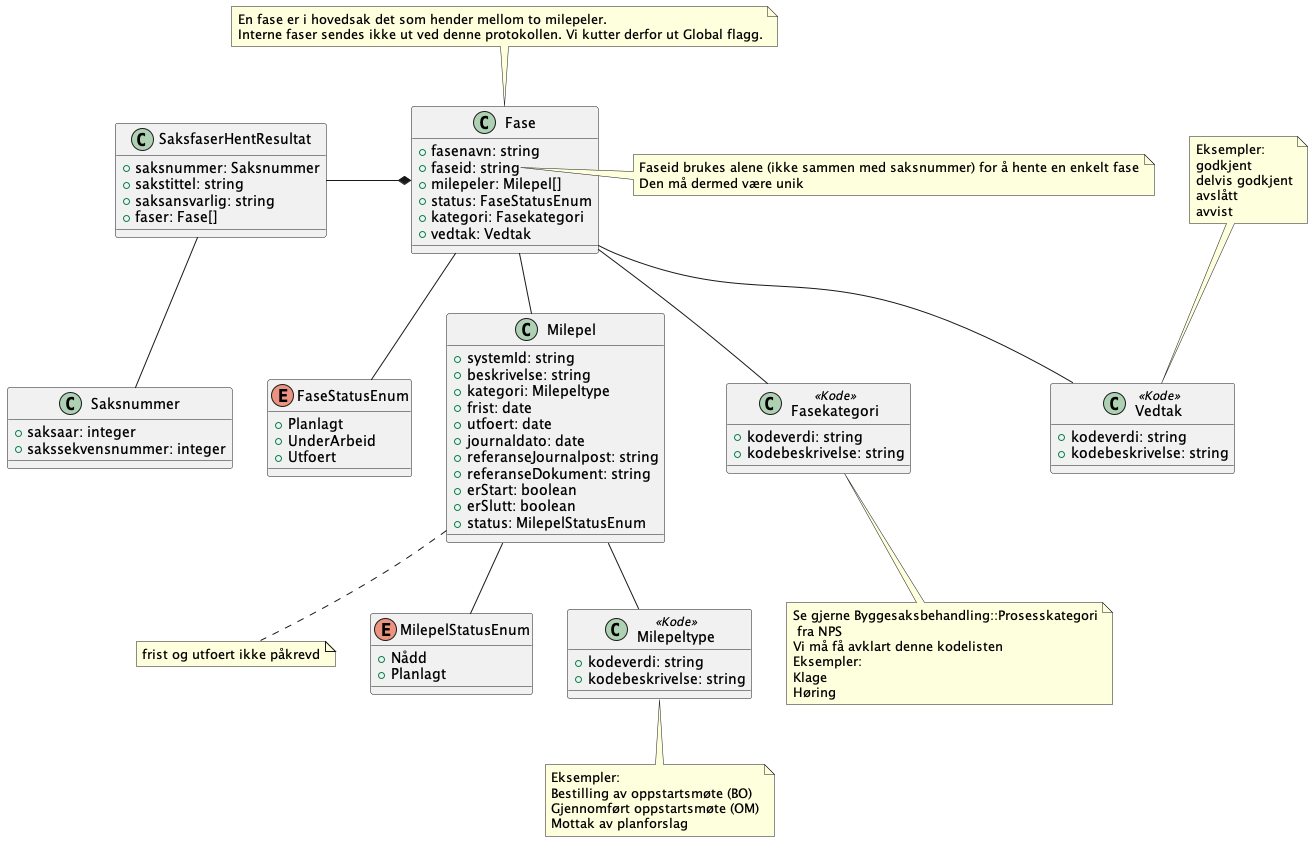
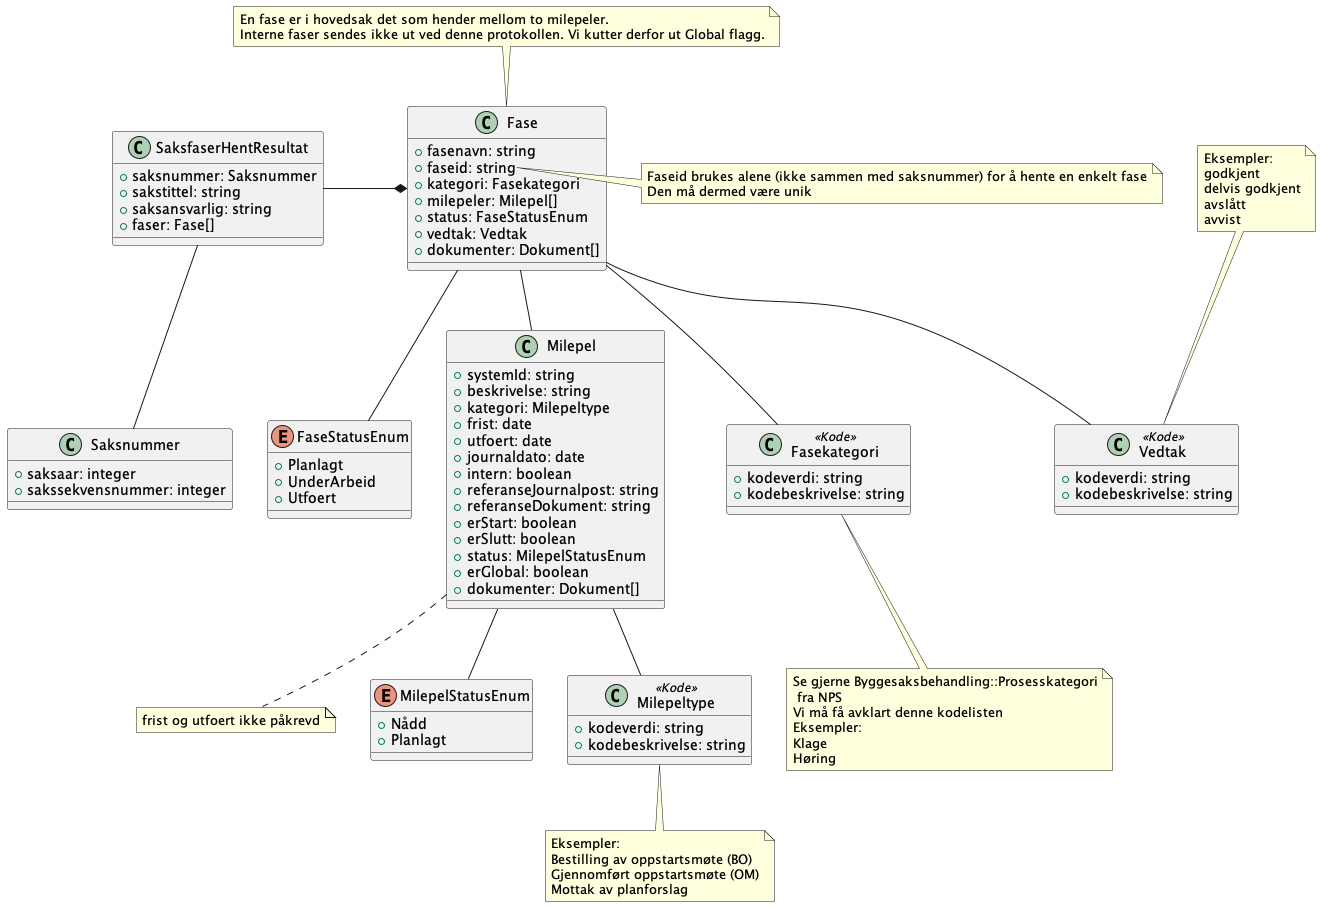
Siste oppdateringer

diff --git a/README.md b/README.md
@@ -55,6 +55,9 @@ _Schemas er ikke oppdatert. Se klassediagram under for innspill_
 
 ![](Dokumentasjon/V1/ClassDiagrams/no.ks.fiks.saksfaser.v1.saksfaser.hent.resultat/classdiagram.svg)
 
+- Fase inneholder mulighetene for å gi en liste med dokumenter. Dette er fordi vi gjenbruker fase objektet for hent faser og hent en enkelt fase.
+- Milepel inneholder mulighetene for å gi en liste med dokumenter. Dette er fordi vi gjenbruker milepel objektetet for hent faser og hent en enkelt fase.
+- Dokumenter vil være ikke påkrevd under milepel eller fase.
 - Milepeler er liste under fase. Kan være 2, start og slutt, eller flere. Alt etter brukstilfelle.
 
 #### Melding - Hent saksfase
